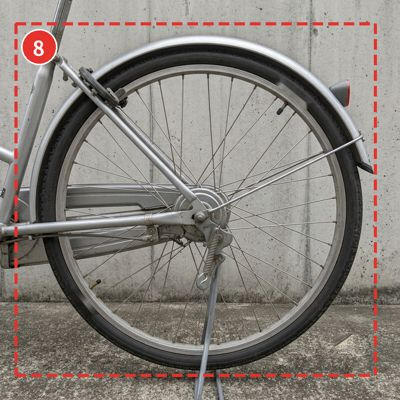
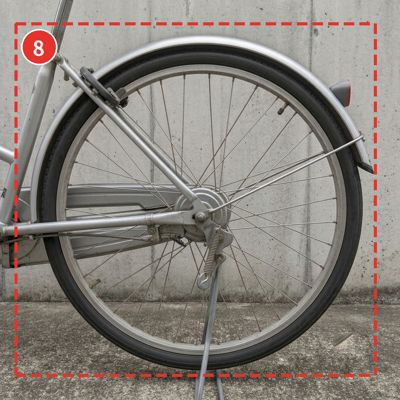
写真査定: 後輪（3345）と鍵（3348）をオーナーの文字消し版に差し替え。こちらの塗り消し（TEXT_FIX）は無効化

diff --git a/docs/mihon/make-mihon.py b/docs/mihon/make-mihon.py
@@ -60,11 +60,7 @@ STAR_FIX = {
 }
 # 文字の消し方：回転した楕円／長方形のマスクで周囲から塗る（cv2.inpaint NS）。1024px 座標
 #   ('ellipse', (cx, cy), (ax, ay), angle) / ('rect', (cx, cy), (w, h), angle)
-TEXT_FIX = {
-    # 原画を拡大して文字の帯を測った（2026-09-22）。帯は細く、タイヤの黒い側面・バッテリーの黒い面の中に収める
-    '3345': [('rect', (751, 236), (112, 26), 39), ('rect', (210, 772), (106, 26), 51)],   # KENDA ×2（タイヤの側面、斜め）
-    '3348': [('rect', (411, 853), (278, 30), -78)],                                      # BRIDGESTONE LITHIUM-ION BATTERY B400（縦、12度傾き）
-}
+TEXT_FIX = {}   # 2026-09-22 夕: オーナーから文字消し済みの 3345/3348 を受け取ったので、こちらの塗り消しは使わない（仕組みは残す）
 
 SIDE_NOTE = '反対側からも同じように1枚'
 PENDING = '実写真を準備中'
